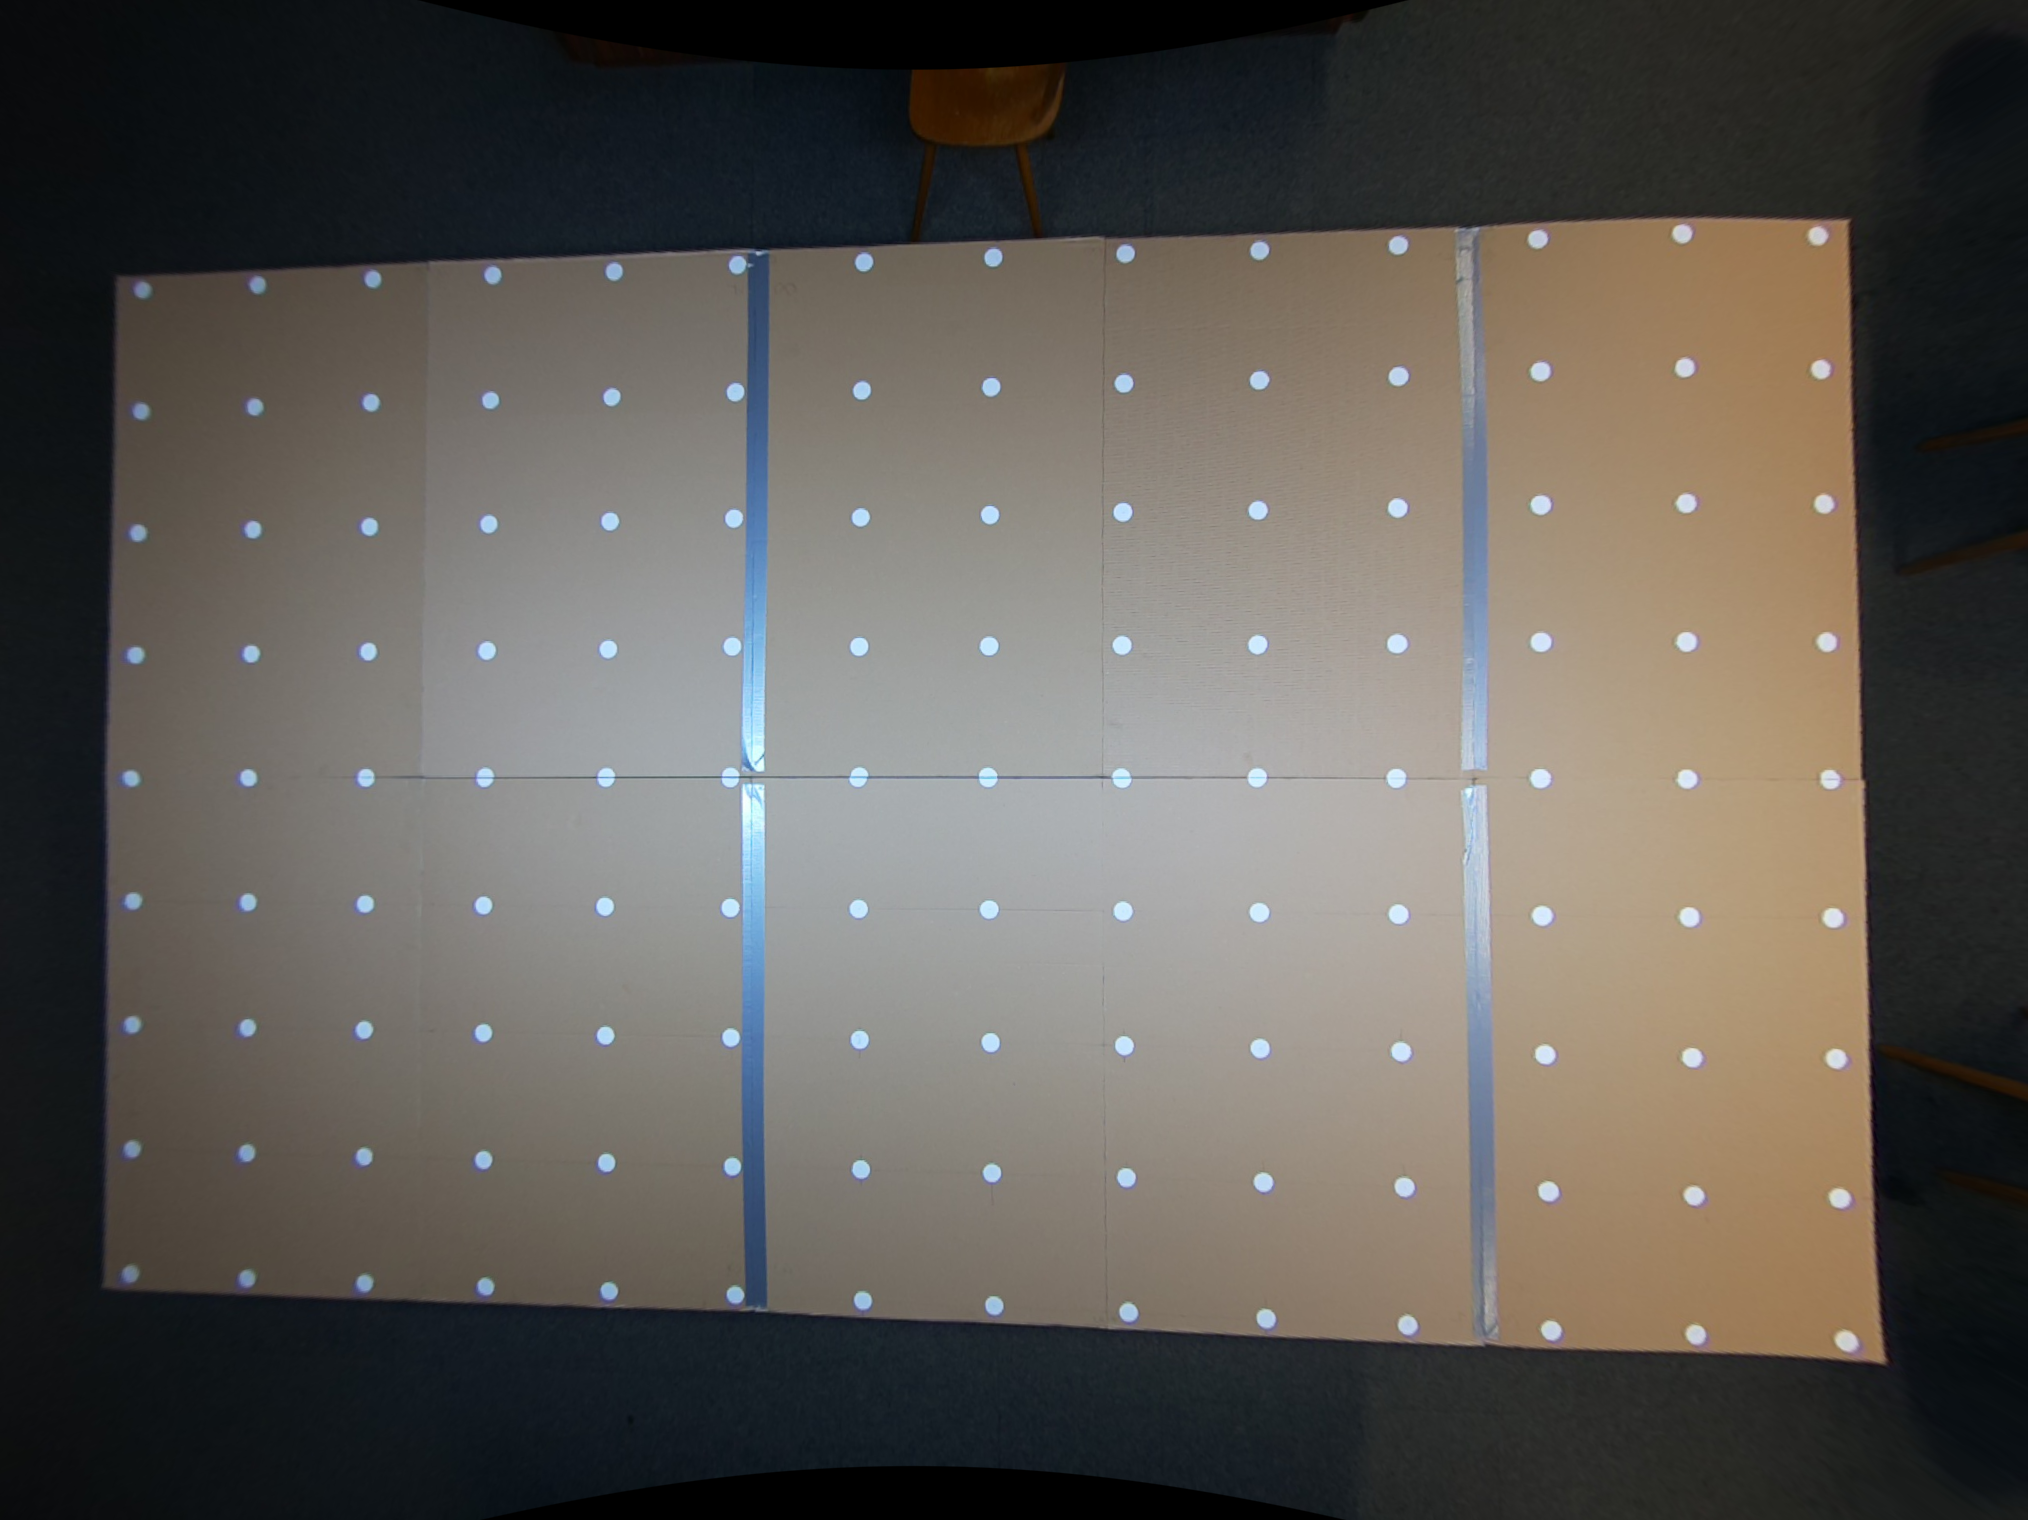
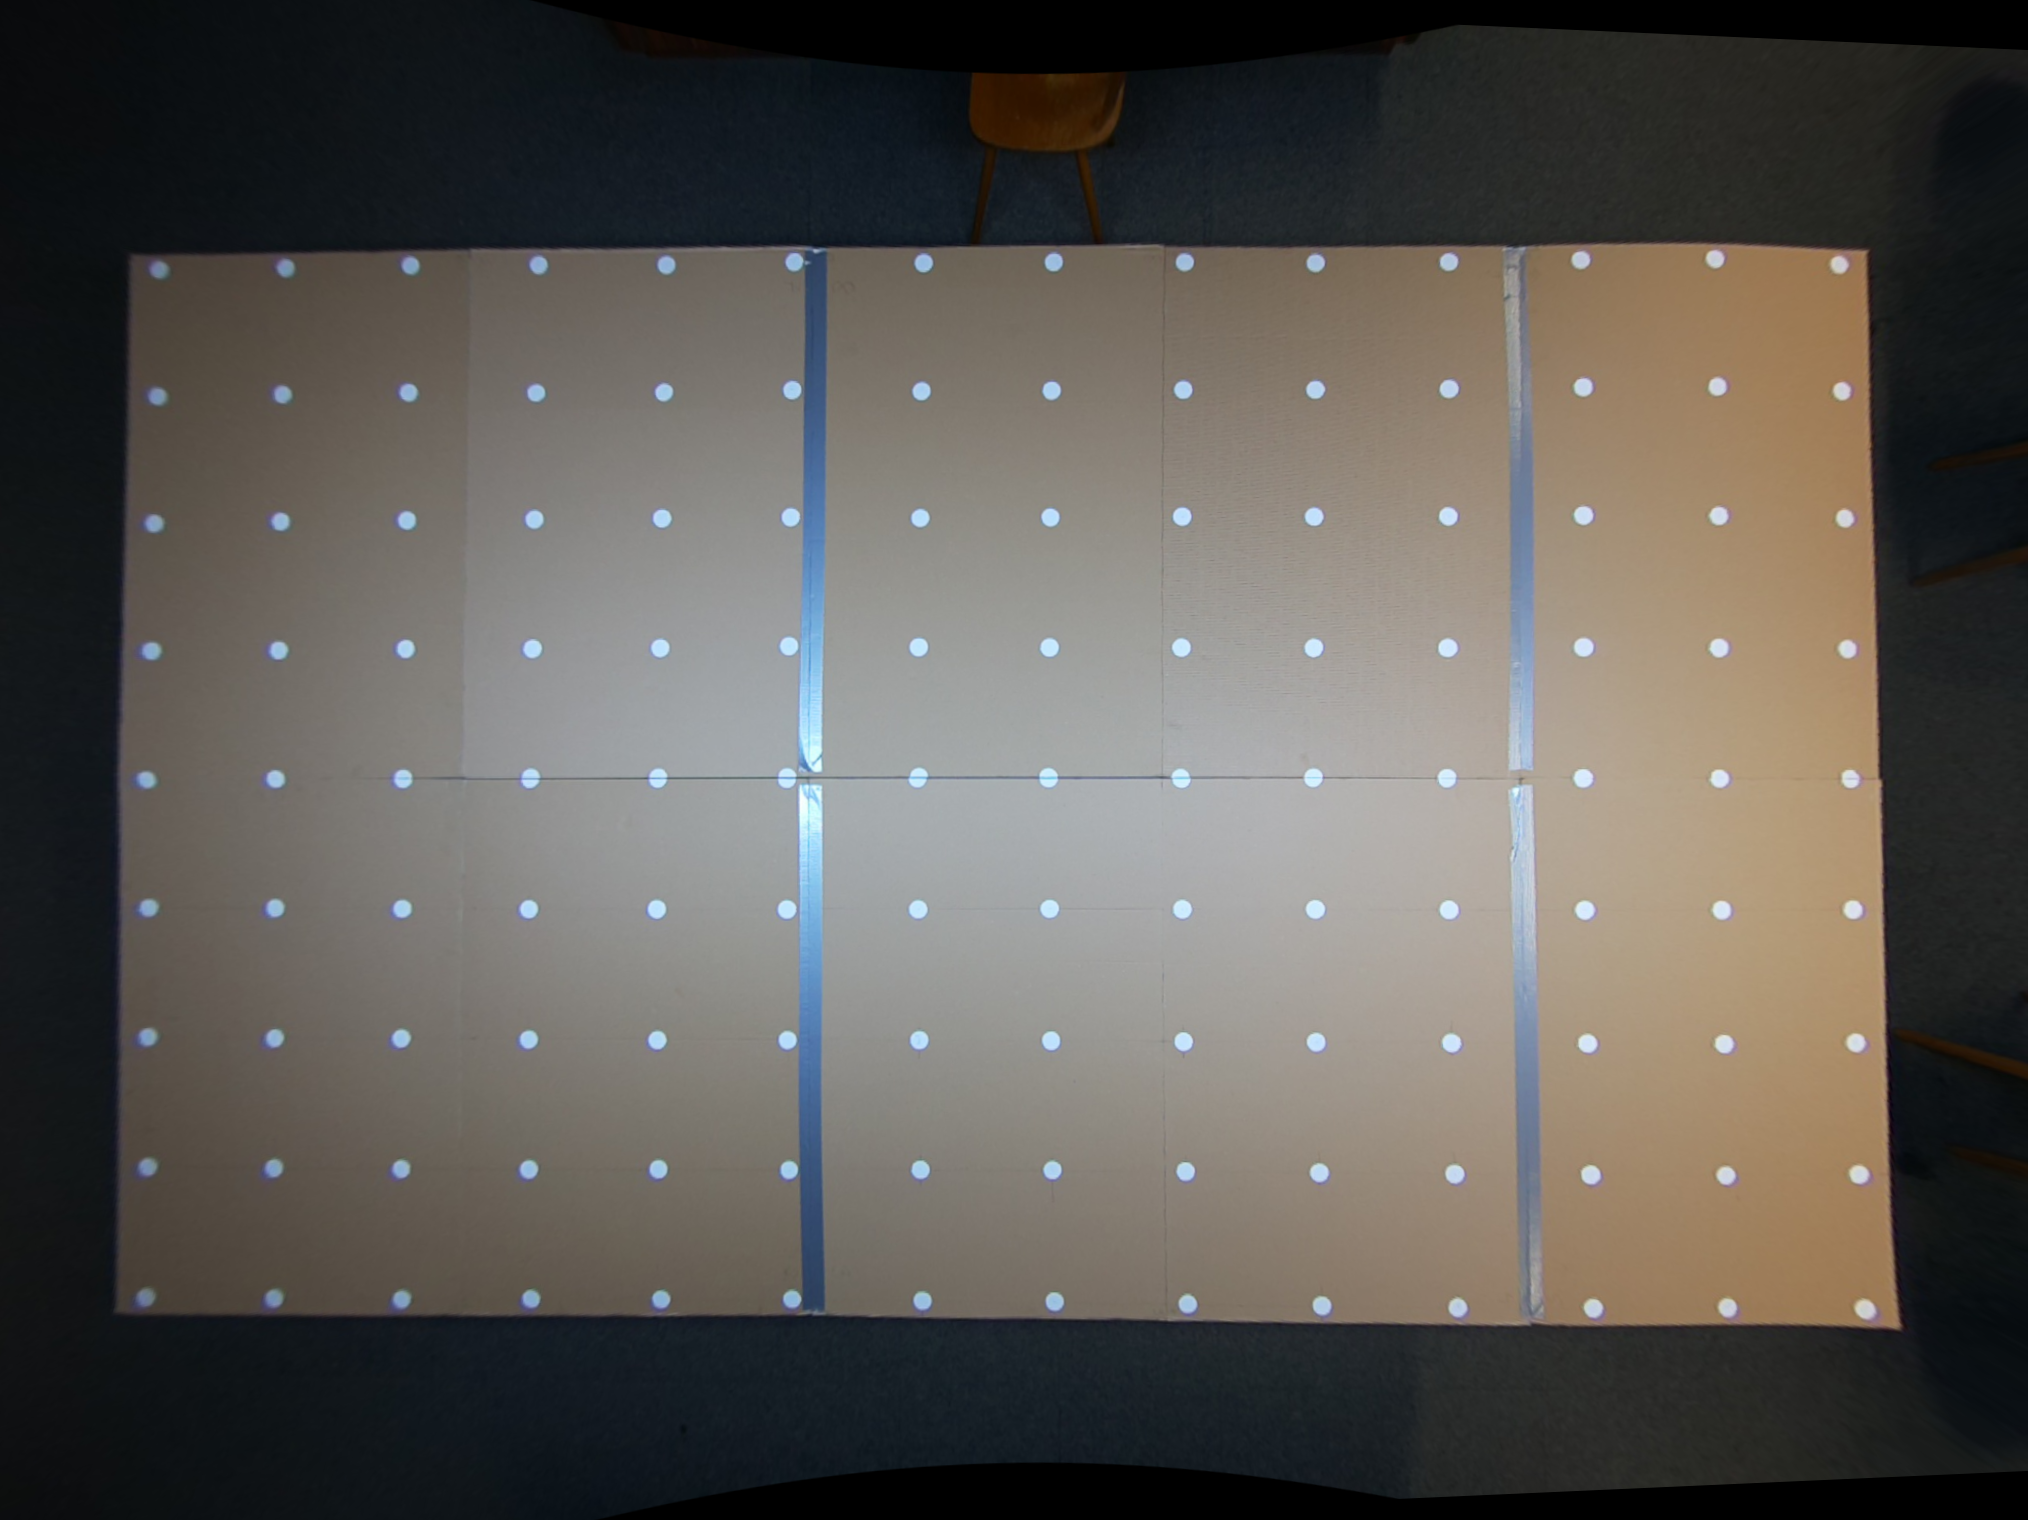
perspective transformation added

diff --git a/CalibrationByChessboard/undistortImage.py b/CalibrationByChessboard/undistortImage.py
@@ -30,10 +30,10 @@ src_points = np.float32([
 
 # Define the destination points
 dst_points = np.float32([
-    [0, 0],                # Adjust according to the desired output (example values)
-    [w - 1, 0],            # Top-right corner should remain the same
-    [w - 1, h - 1],        # Bottom-right corner should remain the same
-    [0, h - 1]             # Bottom-left corner should remain the same
+    [0, -40],                # Adjust according to the desired output (example values)
+    [w - 1, 50],            # Top-right corner should remain the same
+    [w - 1, h - 50],        # Bottom-right corner should remain the same
+    [0, h +40]             # Bottom-left corner should remain the same
 ])
 
 # Compute the perspective transformation matrix
